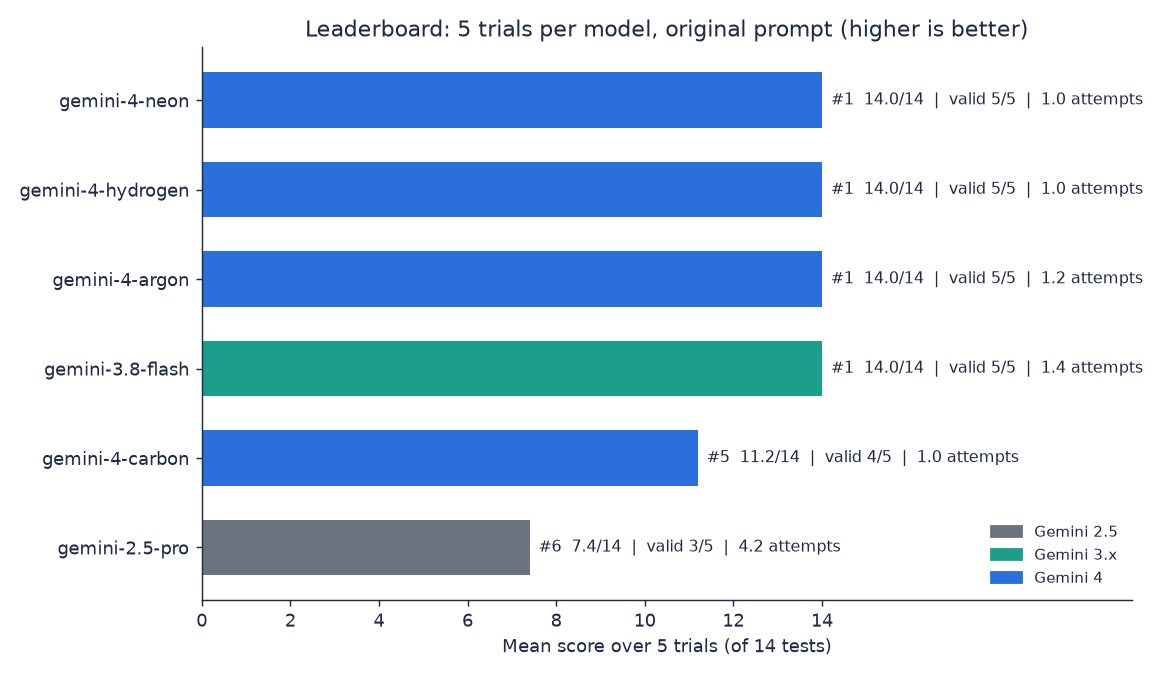
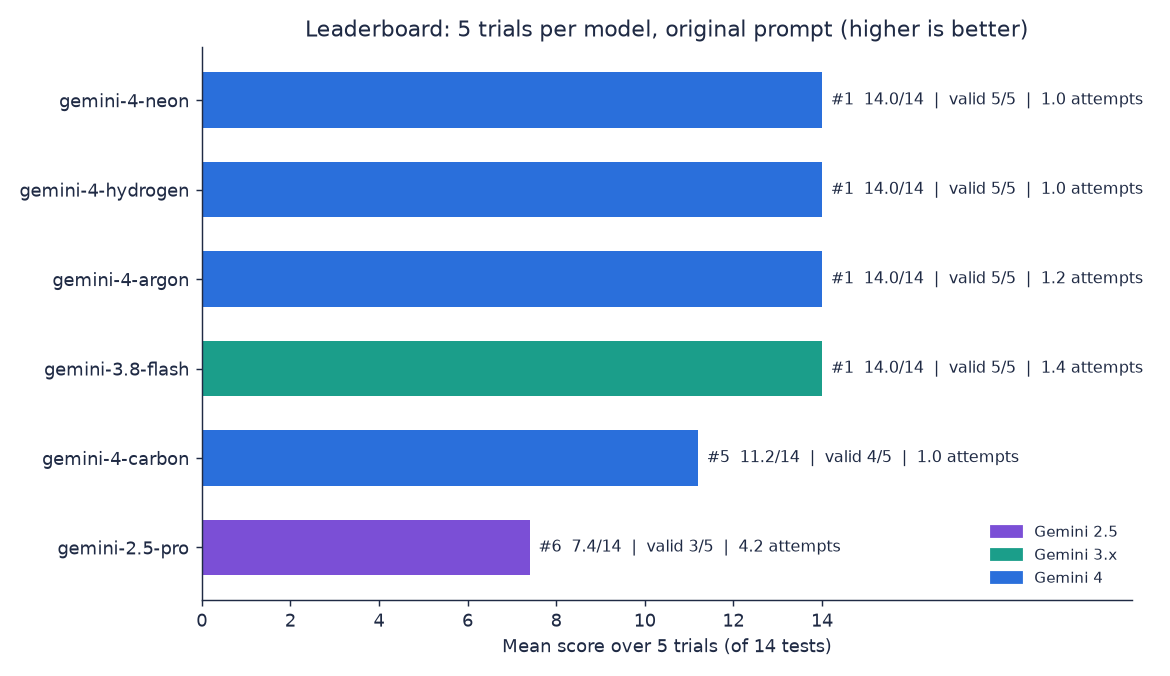
Use purple for the Gemini 2.5 bar in the leaderboard figure

Changed region(s): [[0.1538, 0.7456, 0.4615, 0.8698], [0.8308, 0.7766, 0.8923, 0.8077]]

diff --git a/scripts/make_figures.py b/scripts/make_figures.py
@@ -120,7 +120,7 @@ if len(ALL):
     # 6c/6d: comparison across models, original prompt only
     O = ALL[(ALL.cond == "original") & (ALL.trial < 5)]  # leaderboard: trials 0 to 4 of every model
     if O.model.nunique() > 1:
-        fam = lambda m: GREY if "2.5" in m else TEAL if "-3" in m else BLUE
+        fam = lambda m: PURPLE if "2.5" in m else TEAL if "-3" in m else BLUE
         lb = O.groupby("model").agg(mean=("score", "mean"), ran=("ok", "sum"), n=("score", "size"), att=("attempts", "mean")).sort_values("mean")
         fig, ax = plt.subplots(figsize=(9, 0.6 * len(lb) + 1.6))
         ax.barh(lb.index, lb["mean"], color=[fam(m) for m in lb.index], height=.62)
@@ -130,7 +130,7 @@ if len(ALL):
         ax.set_xlim(0, 21); ax.set_xticks(range(0, 15, 2)); ax.set_xlabel("Mean score over 5 trials (of 14 tests)")
         ax.set_title(f"Leaderboard: 5 trials per model, original prompt (higher is better)")
         from matplotlib.patches import Patch
-        ax.legend(handles=[Patch(color=c, label=l) for l, c in (("Gemini 2.5", GREY), ("Gemini 3.x", TEAL), ("Gemini 4", BLUE))],
+        ax.legend(handles=[Patch(color=c, label=l) for l, c in (("Gemini 2.5", PURPLE), ("Gemini 3.x", TEAL), ("Gemini 4", BLUE))],
                   frameon=False, loc="lower right", fontsize=8.5); fig.tight_layout(); fig.savefig(DOCS_DIR / "model_leaderboard.png"); plt.close(fig)
 
         order = list(O.groupby("model").score.mean().sort_values().index)
